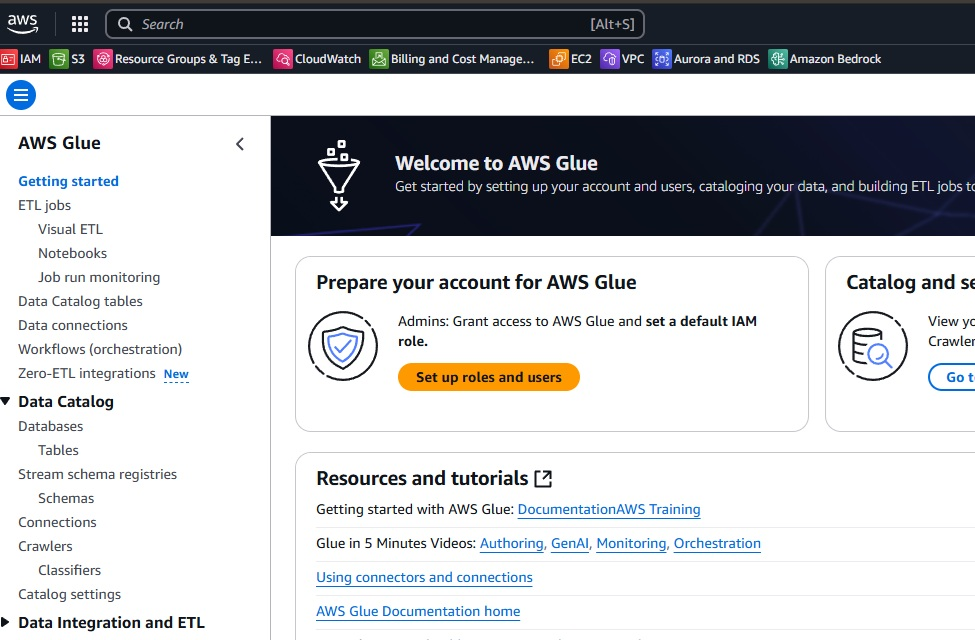
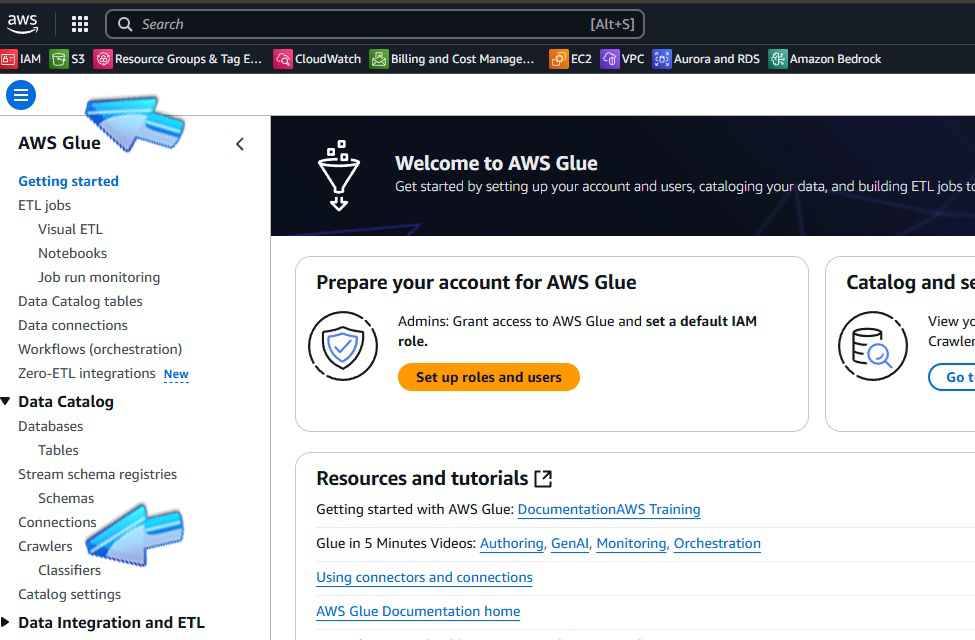
Update AWS Glue documentation with new crawler image and clarify instructions

Changed region(s): [[0.0615, 0.125, 0.2154, 0.25], [0.0923, 0.7812, 0.2154, 0.9062]]

diff --git a/thisisthelab.md b/thisisthelab.md
@@ -94,9 +94,13 @@
 
 ###### ![Brazil](https://github.com/Acheroniano/flag-icon/blob/master/png/16/country-4x3/br.png "Brazil") 
 ###### Abra o AWS GLUE
+###### Abra no menu lateral o item CRAWLERS
 
 ###### ![United States](https://github.com/Acheroniano/flag-icon/blob/master/png/16/country-4x3/us.png "United States") 
 ###### Open the AWS GLUE
+###### Open CRAWLERS in lateral menu
 
 ![AWS Glue](./images/9a-AWSGlueCalling.jpg)
+![AWS Glue Crawlers](./images/10a-AWSGlueCrawlerCalling.jpg)
+
 
